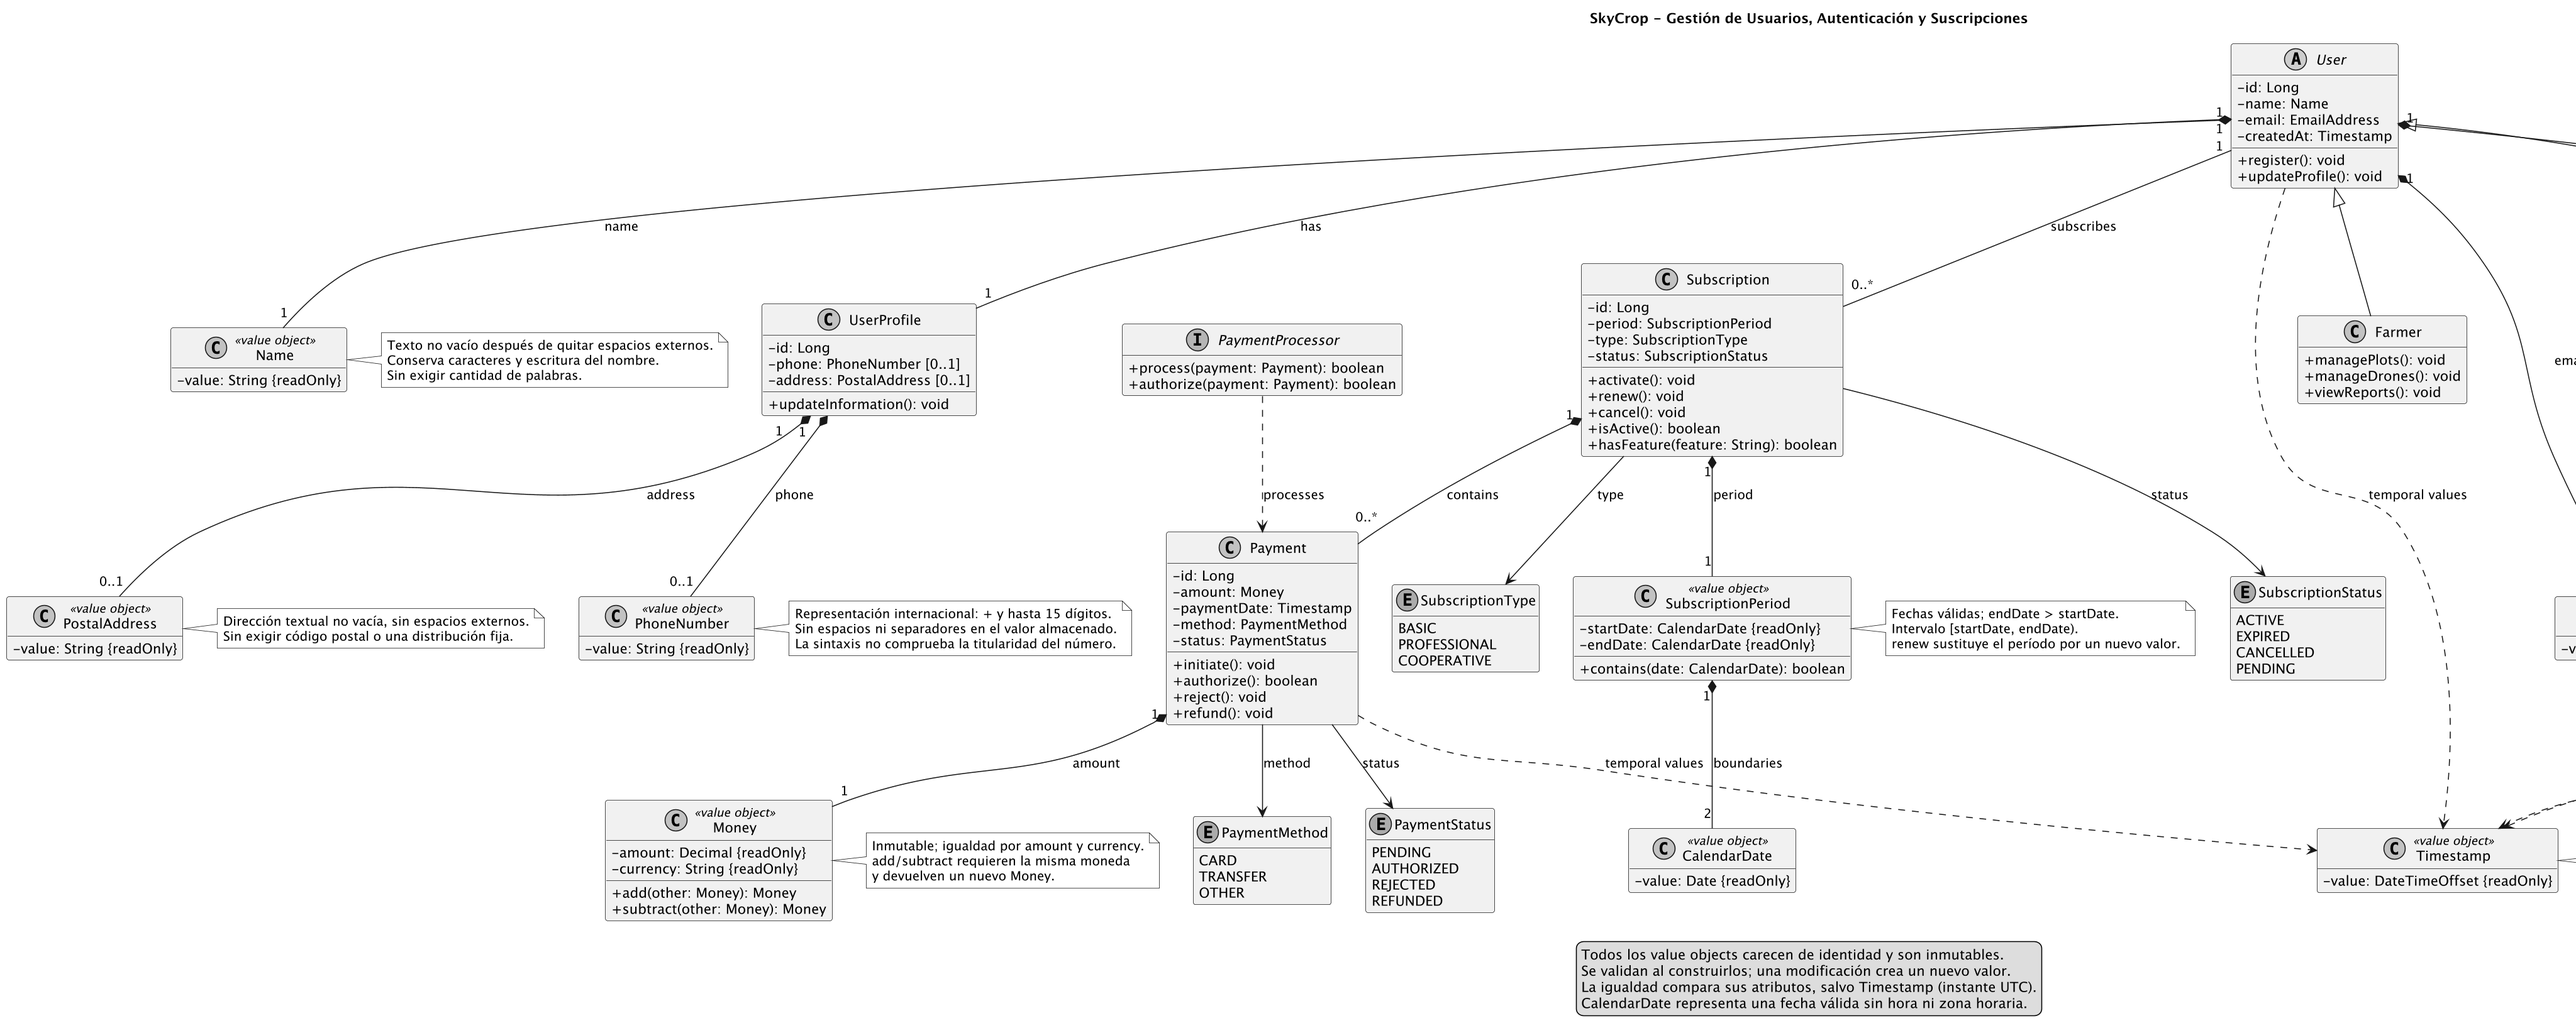
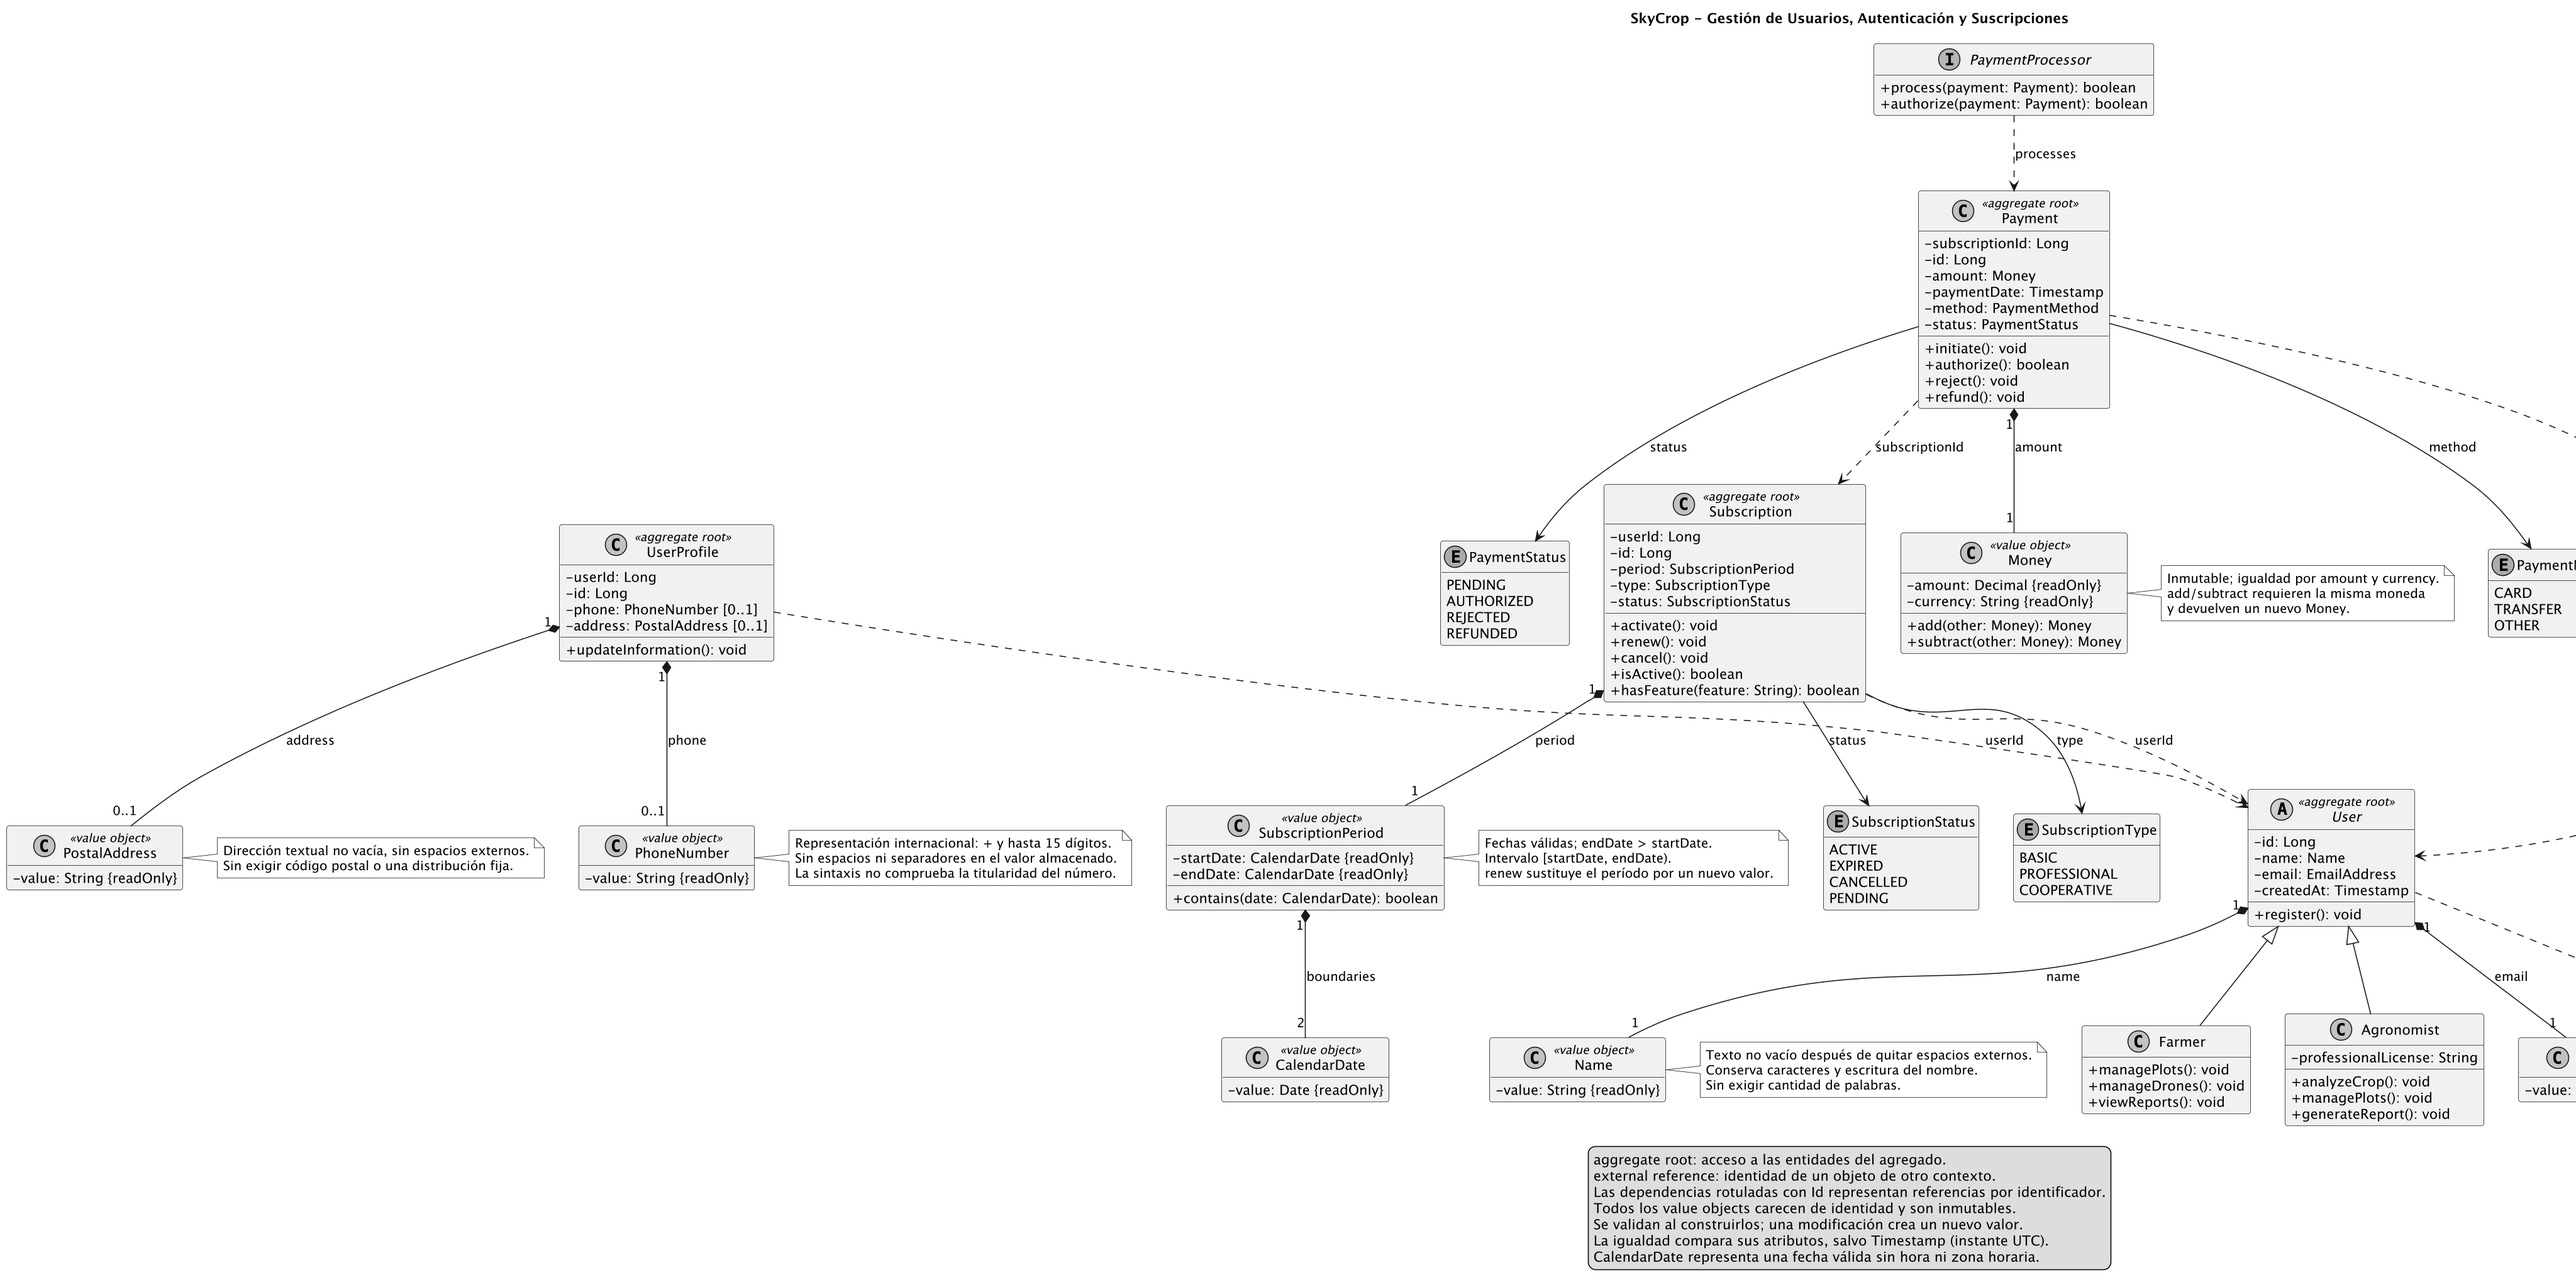
docs(domain): reference aggregates by identifiers.

diff --git a/README.md b/README.md
@@ -1882,6 +1882,21 @@ El refinamiento sustituye los nombres, teléfonos, direcciones y fechas primitiv
 Todos estos valores se validan al construirlos y se sustituyen completos al cambiar; no tienen setters ni identificadores. Un teléfono o una dirección no proporcionados se representan por ausencia del objeto, en lugar de crear valores vacíos. `verifiedAt` permanece ausente antes de verificar el segundo factor. En un vuelo, el inicio y el fin permanecen ausentes hasta sus respectivos eventos y, cuando ambos existen, el fin no puede preceder al inicio. Un código de recuperación deja de ser válido al alcanzar su instante de vencimiento.
 
 
+Los agregados delimitan las entidades cuya consistencia se mantiene a través de una raíz. La composición indica pertenencia al mismo agregado; las relaciones entre agregados se expresan mediante identificadores. Los servicios consultan los datos asociados a estos identificadores sin incorporar las entidades de otros contextos al estado del agregado.
+
+| Contexto | Raíces de agregado y entidades internas | Referencias por identificador |
+|---|---|---|
+| IAM | `User` identifica al usuario; `Account` administra credenciales, `TwoFactorAuthentication` y `RecoveryCode`. | `Account.userId` identifica al usuario. |
+| Profiles and Preferences Management | `UserProfile` administra los datos del perfil. | `userId` relaciona el perfil con la identidad. |
+| Subscriptions and Payment Management | `Subscription` controla la vigencia; `Payment` mantiene el estado de una transacción. | `Subscription.userId` y `Payment.subscriptionId`. |
+| Agricultural Plot Management | `AgriculturalPlot` contiene `Crop` y `PlotMap`. | `ownerId` y `memberIds` identifican a los usuarios autorizados. |
+| Drone Management | `Drone` contiene `DroneConfiguration`; `FlightPlan` conserva la configuración de la ruta; `Flight` contiene sus `AerialImage`. | `Drone.ownerId`, `FlightPlan.plotId`, `Flight.flightPlanId` y `Flight.droneId`. |
+| Diagnoses Generation | `Diagnosis` contiene `TerrainData`, `Anomaly`, `TerrainMap` y su entrada de `DiagnosticHistory`; `AgronomicRule` conserva una regla de análisis. | `plotId`, `imageIds`, `cropIds` y `ruleIds`. |
+| Report Management | `Report` conserva el contenido y los diagnósticos utilizados. | `plotId`, `createdById` y `diagnosisIds`. |
+| Notification Service | `Notification` administra el aviso y su estado de envío o lectura. | `recipientId` y, para avisos de anomalías, `diagnosisId` y `anomalyId`. |
+
+Los identificadores se representan mediante `Long`, sin añadir comportamiento de negocio al identificador. Las clases marcadas como `external reference` muestran únicamente la identidad del objeto referenciado. Una anomalía se identifica junto con el diagnóstico al que pertenece, ya que forma parte de ese agregado. Un vuelo puede contener cero imágenes antes de la captura y un diagnóstico puede carecer de resultados mientras se encuentra en procesamiento.
+
 **SkyCrop - Gestión de Usuarios, Autenticación y Suscripciones**
 <div align="center">
 <img src="resources/imgs/Diagrams/ClassDiagram1-updated.png" alt="ClassDiagram1" width="600">
